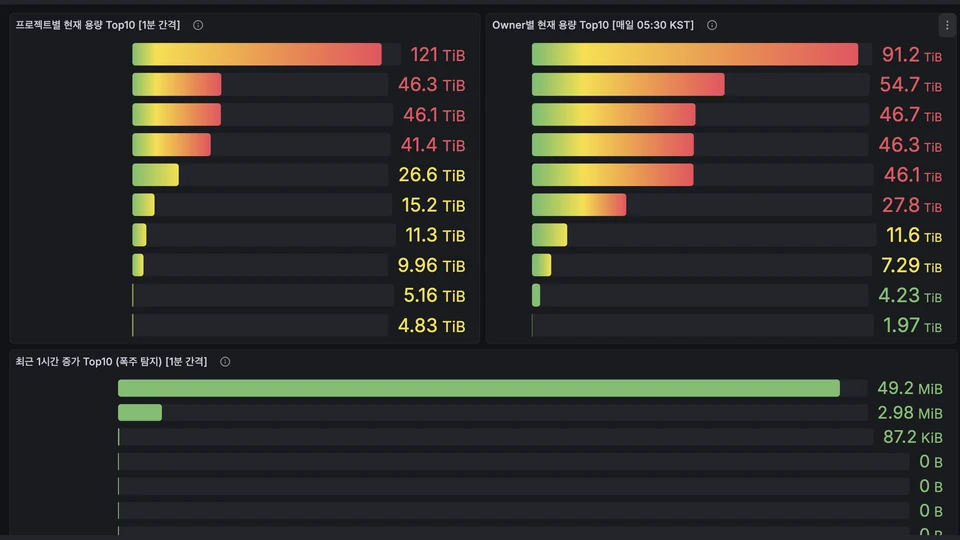
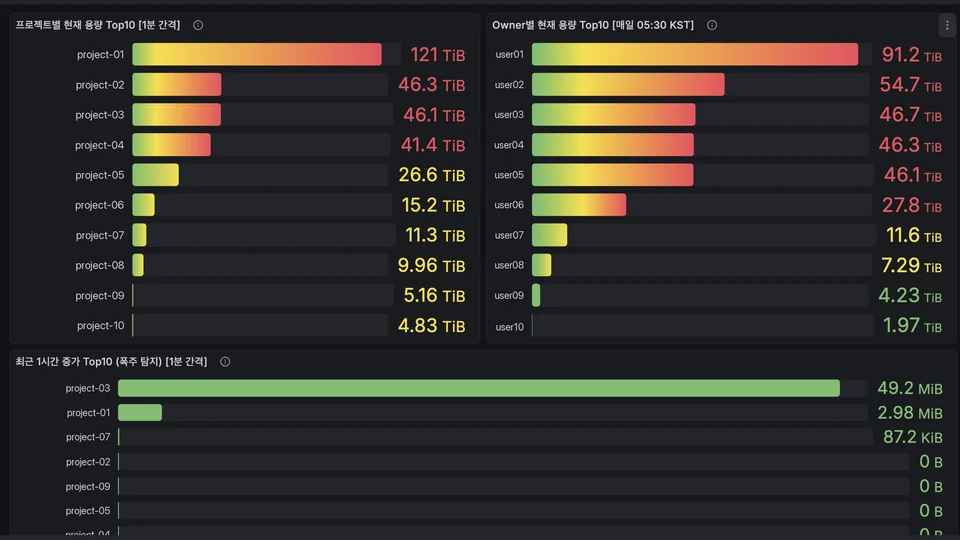
fix(site): Grafana 대시보드 가림 칸을 익명 라벨로 바꾸고 지워진 표 구분선 복원
- 계정명·과제명을 지운 빈 칸에 원래 자리·크기·정렬·색으로 user01·project-01 형식 익명 라벨을 넣음
- GPU 사용자 현황 표와 CPU 범례 표에서 가림과 함께 지워진 행 구분선을 되살림
- 바뀐 픽셀은 가림 사각형 안쪽뿐(검증), 이미지 4장 링크에 ?v=2 를 붙여 브라우저 캐시를 우회
- 그림 설명을 '가렸습니다' → '익명으로 바꿨습니다'로 수정

diff --git a/index.html b/index.html
@@ -491,18 +491,18 @@
             </div>
           </div>
           <div class="arch-figs">
-            <span class="arch-figs__label">Grafana 대시보드 — 클릭하면 원본이 열립니다 · 계정명과 과제명은 가렸습니다</span>
+            <span class="arch-figs__label">Grafana 대시보드 — 클릭하면 원본이 열립니다 · 계정명과 과제명은 익명으로 바꿨습니다</span>
             <div class="arch-figs__row">
               <a class="arch-fig" href="assets/arch/storage-s3-overview.png" target="_blank" rel="noopener">
                 <img src="assets/arch/thumb/storage-s3-overview.webp" alt="S3 프로젝트 디렉터리 모니터링 — 현재·비현재 총용량, 증가량, 7일 추이" loading="lazy" decoding="async">
                 <span>S3 디렉터리 모니터링</span>
               </a>
-              <a class="arch-fig" href="assets/arch/storage-fsx.png" target="_blank" rel="noopener">
-                <img src="assets/arch/thumb/storage-fsx.webp" alt="FSx for Lustre 사용 현황 — 디스크 사용량, 경로별·사용자별 용량(사용자 계정명 가림)" loading="lazy" decoding="async">
+              <a class="arch-fig" href="assets/arch/storage-fsx.png?v=2" target="_blank" rel="noopener">
+                <img src="assets/arch/thumb/storage-fsx.webp?v=2" alt="FSx for Lustre 사용 현황 — 디스크 사용량, 경로별·사용자별 용량(사용자 계정명은 익명 처리)" loading="lazy" decoding="async">
                 <span>FSx 사용 현황</span>
               </a>
-              <a class="arch-fig" href="assets/arch/storage-s3-top10.png" target="_blank" rel="noopener">
-                <img src="assets/arch/thumb/storage-s3-top10.webp" alt="S3 과제별·소유자별 용량 Top10과 최근 1시간 증가 Top10(과제명·계정명 가림)" loading="lazy" decoding="async">
+              <a class="arch-fig" href="assets/arch/storage-s3-top10.png?v=2" target="_blank" rel="noopener">
+                <img src="assets/arch/thumb/storage-s3-top10.webp?v=2" alt="S3 과제별·소유자별 용량 Top10과 최근 1시간 증가 Top10(과제명·계정명은 익명 처리)" loading="lazy" decoding="async">
                 <span>과제·소유자 Top10</span>
               </a>
             </div>
@@ -549,14 +549,14 @@
             </div>
           </div>
           <div class="arch-figs">
-            <span class="arch-figs__label">Grafana 대시보드 — 클릭하면 원본이 열립니다 · 계정명과 과제명은 가렸습니다</span>
+            <span class="arch-figs__label">Grafana 대시보드 — 클릭하면 원본이 열립니다 · 계정명과 과제명은 익명으로 바꿨습니다</span>
             <div class="arch-figs__row">
-              <a class="arch-fig" href="assets/arch/gpu-obs-overview.png" target="_blank" rel="noopener">
-                <img src="assets/arch/thumb/gpu-obs-overview.webp" alt="GPU 사용자 현황 대시보드 — 노드 CPU·메모리, GPU별 사용률과 상태(사용자 계정명 가림)" loading="lazy" decoding="async">
+              <a class="arch-fig" href="assets/arch/gpu-obs-overview.png?v=2" target="_blank" rel="noopener">
+                <img src="assets/arch/thumb/gpu-obs-overview.webp?v=2" alt="GPU 사용자 현황 대시보드 — 노드 CPU·메모리, GPU별 사용률과 상태(사용자 계정명은 익명 처리)" loading="lazy" decoding="async">
                 <span>GPU 사용자 현황</span>
               </a>
-              <a class="arch-fig" href="assets/arch/gpu-obs-cpu.png" target="_blank" rel="noopener">
-                <img src="assets/arch/thumb/gpu-obs-cpu.webp" alt="사용자별 CPU 코어 사용량 추이(사용자 계정명 가림)" loading="lazy" decoding="async">
+              <a class="arch-fig" href="assets/arch/gpu-obs-cpu.png?v=2" target="_blank" rel="noopener">
+                <img src="assets/arch/thumb/gpu-obs-cpu.webp?v=2" alt="사용자별 CPU 코어 사용량 추이(사용자 계정명은 익명 처리)" loading="lazy" decoding="async">
                 <span>사용자별 CPU 사용량</span>
               </a>
             </div>
